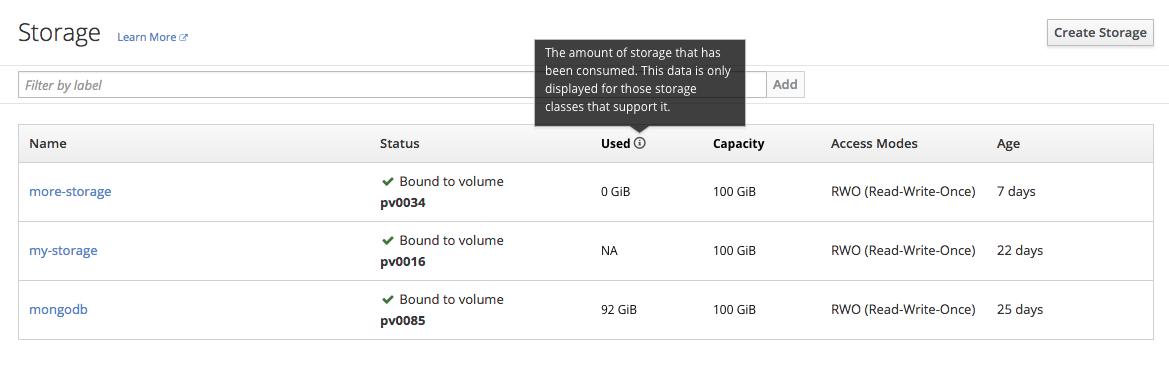
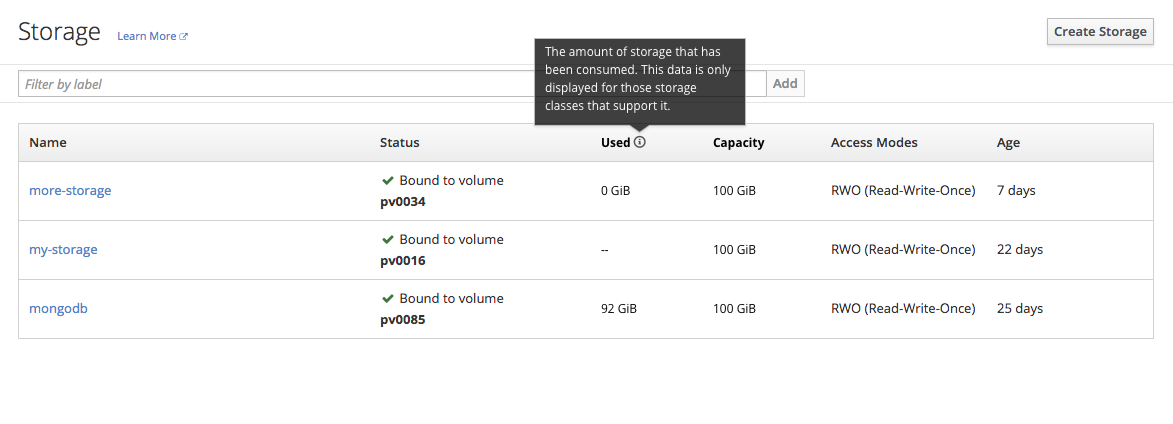
Removed some open questions which were no longer open, changed from using `NA` to `--` when metric is unsupported.

diff --git a/web-console/project-details/storage-metrics.md b/web-console/project-details/storage-metrics.md
@@ -1,9 +1,7 @@
 # Storage usage Metrics
 
 ## Open Questions
-- What would we want the thresholds for the donut chart to be? Are the defaults ok?
 - Will these storage metrics be tied to any events or warnings so that we can proactively inform users of any storage problems?
-- Is `NA` indeed how we want to show that the metric doesn't exist? Should we add a tooltip to that as well?
 
 ## Storage List Page
 
@@ -12,7 +10,7 @@
 - Add a column **Used** between the **Status** and **Capacity** columns.
 - The units should match between the **Used** and **Capacity** columns for easy comparison.
 - Because it's possible that not all storage classes will have the capacity consumed metric, field-level help should be used in the column header to explain why some rows may not have an entry in that column.
-- If that metric is not available for a storage class, `NA` should appear in the **Used** column for that row.
+- If that metric is not available for a storage class, `--` should appear in the **Used** column for that row.
 
 
 ## Storage Details Page
